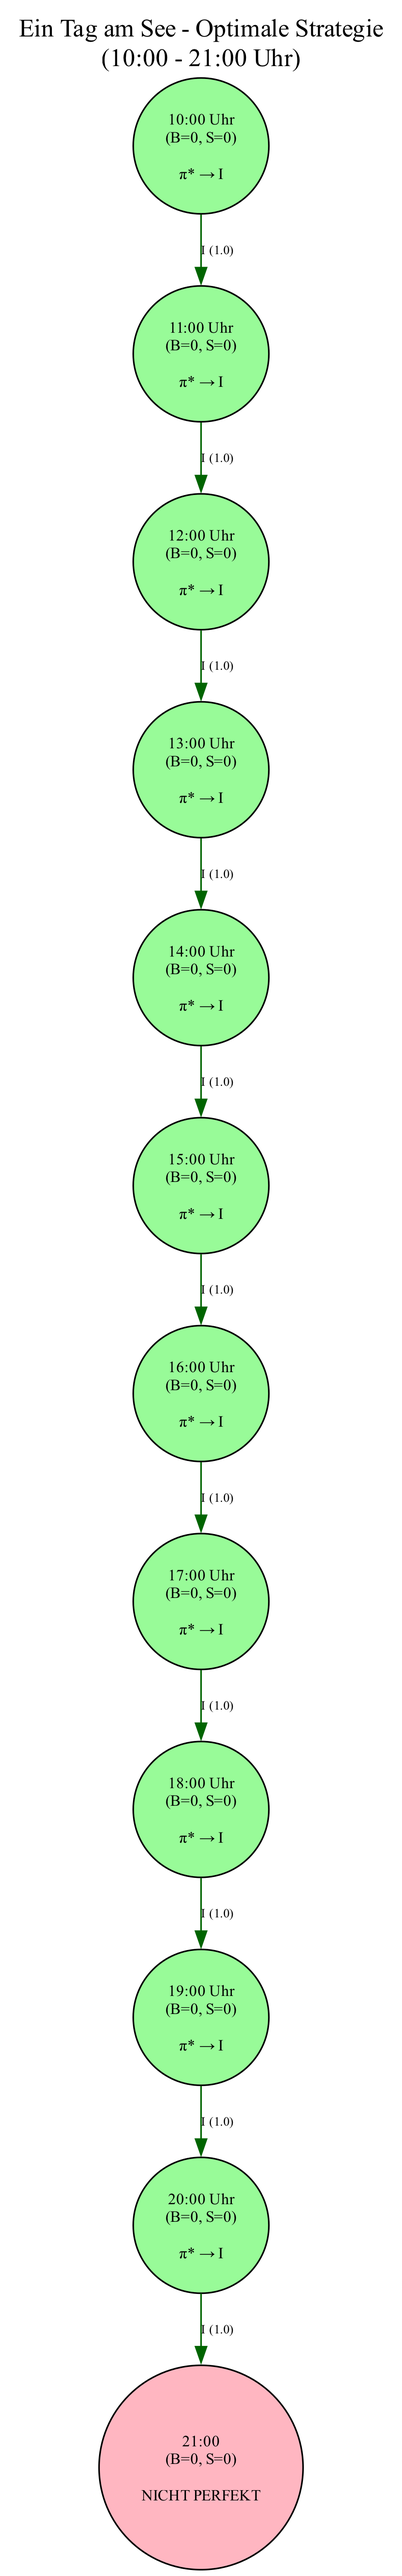
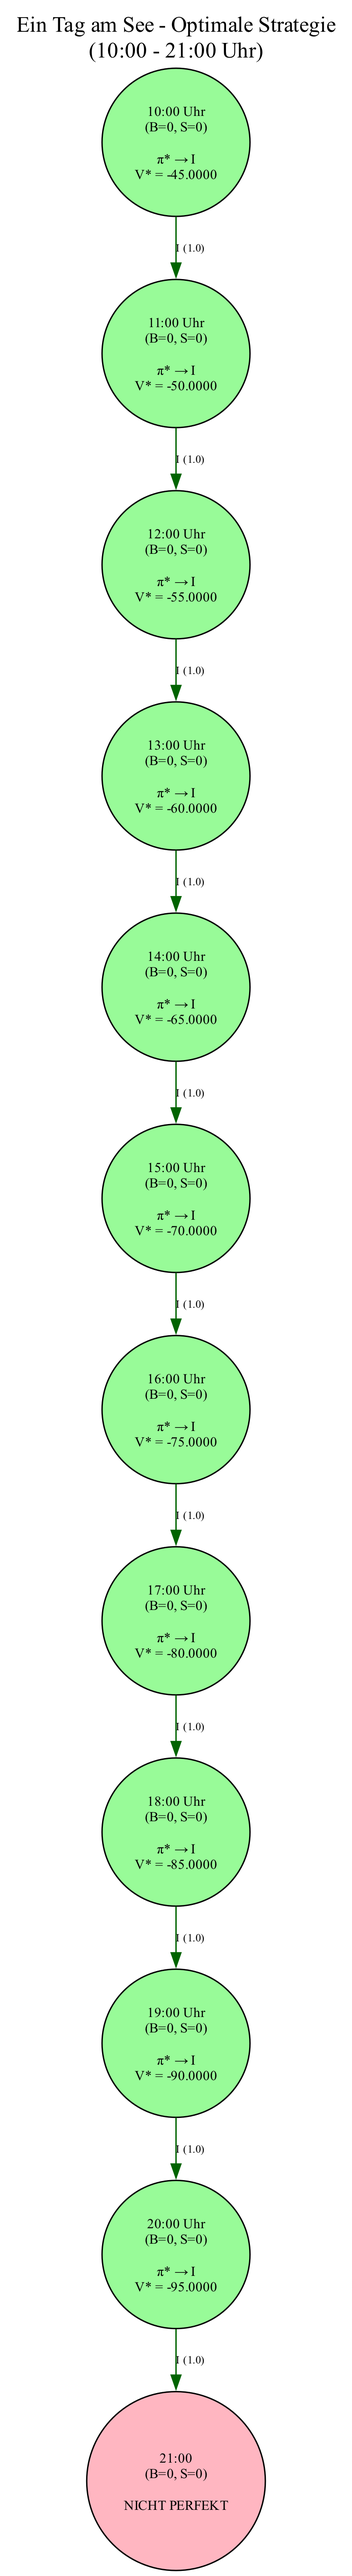
fixed print strategy summary, added new label to the visualization, minor grammar fixes

Changed region(s): [[0.2132, 0.0, 0.7613, 1.0], [0.8526, 0.0, 0.944, 0.0312]]

diff --git a/abgabe/main.py b/abgabe/main.py
@@ -33,7 +33,7 @@ class EinTagAmSeeKorrekt:
     def _set_terminal_conditions(self):
         """
         Setzt die Terminalbedingungen für t=0 (21 Uhr)
-        Zustand: (b, s) - Anzahl erfolgreicher Bäder und Sonnenbäder
+        Zustand: (b, s) - Anzahl erfolgreiches Badens und Sonnenbadens
         """
         self.V[0] = {}
 
@@ -165,7 +165,7 @@ class EinTagAmSeeKorrekt:
                         state = (b, s)
                         if state in self.V[t]:
                             value = self.V[t][state]
-                            status = "PERFEKT" if value == 0 else "NICHT PERFEKT"
+                            status = "PERFEKT" if value == self.belohnung_perfekt else "NICHT PERFEKT"
                             print(f"    (b={b}, s={s}): V={value:4.0f} ({status})")
             else:
                 hour = self.hours[len(self.hours) - t]
@@ -193,8 +193,8 @@ class EinTagAmSeeKorrekt:
         count_perfect = 0
 
         for _ in range(num_simulations):
-            b = 0  # Anzahl erfolgreicher Bäder
-            s = 0  # Anzahl erfolgreicher Sonnenbäder
+            b = 0  # Anzahl erfolgreiches Badens
+            s = 0  # Anzahl erfolgreiches Sonnenbadens
 
             # Simuliere einen kompletten Tag
             for t in range(len(self.hours), 0, -1):
@@ -247,7 +247,7 @@ class EinTagAmSeeKorrekt:
         # Zusätzliche Analyse
         print(f"\nZUSÄTZLICHE ANALYSE:")
         print("-" * 20)
-        print(f"• Mindestanforderungen: {self.min_baden} Bäder + {self.min_sonnen} Sonnenbäder")
+        print(f"• Mindestanforderungen: {self.min_baden} Baden + {self.min_sonnen} Sonnenbaden")
         print(f"• Strafe für nicht-perfekten Tag: {self.strafe_nicht_perfekt}")
         print(f"• Anzahl Entscheidungsstufen: {len(self.hours)}")
         print(f"• Zustandsraum-Größe pro Stufe: {(self.max_realistic + 1) ** 2}")
@@ -257,14 +257,23 @@ class EinTagAmSeeKorrekt:
         print("\nSTRATEGIE-ZUSAMMENFASSUNG:")
         print("-" * 30)
 
-        # Analysiere Strategie für Startzustand
+        current_b, current_s = 0, 0
+
         for t in range(len(self.hours), 0, -1):
             hour = self.hours[len(self.hours) - t]
-            state = (0, 0)  # Startzustand
+            state = (current_b, current_s)
+
             if state in self.policy[t]:
                 action = self.policy[t][state]
                 value = self.V[t][state]
-                print(f"{hour}:00 Uhr - Aktion: {action} (Wert: {value:.2f})")
+
+                print(f"{hour}:00 Uhr - Zustand: (b={current_b}, s={current_s}) → Aktion: {action} (Wert: {value:.2f})")
+
+                # Aktualisiere Zustand bei Erfolg
+                if action == "B":
+                    current_b = min(current_b + 1, self.max_realistic)
+                elif action == "S":
+                    current_s = min(current_s + 1, self.max_realistic)
 
     def visualize_full_policy_tree(self, filename="full_optimal_policy_tree"):
         """
@@ -313,9 +322,10 @@ class EinTagAmSeeKorrekt:
             else:
                 # Entscheidungsknoten - Farbe basierend auf optimaler Aktion
                 action = self.policy[t][(b, s)]
+                value = self.V[t][(b, s)]
                 color = action_colors.get(action, '#FFFFFF')
                 # Zeige auch die optimale Aktion im Label
-                label = label + f"\\n\\nπ* → {action}"
+                label = label + f"\\n\\nπ* → {action}\\nV* = {value:.4f}"
 
             dot.node(node_id, label=label, fillcolor=color)
             return node_id
